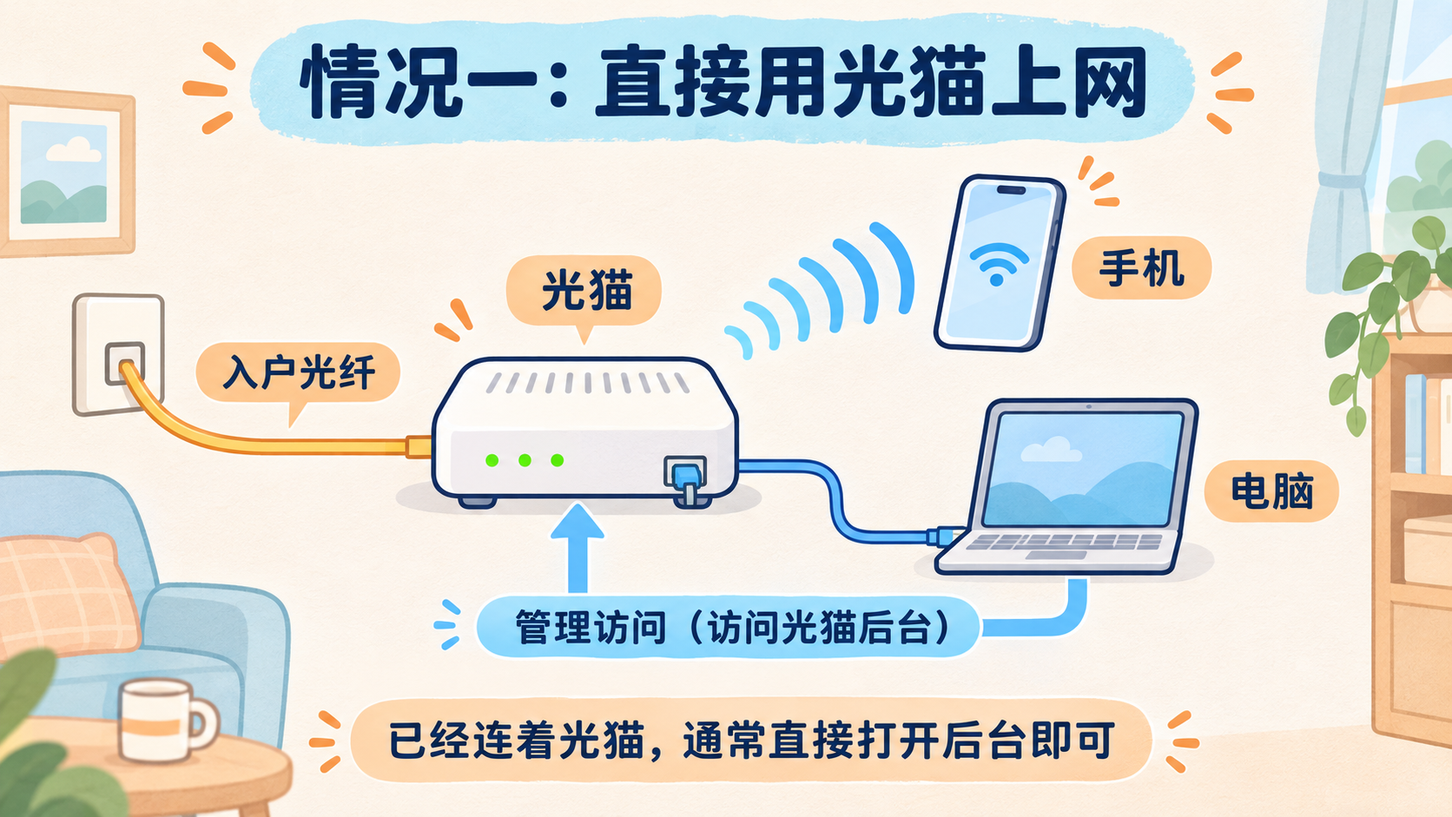
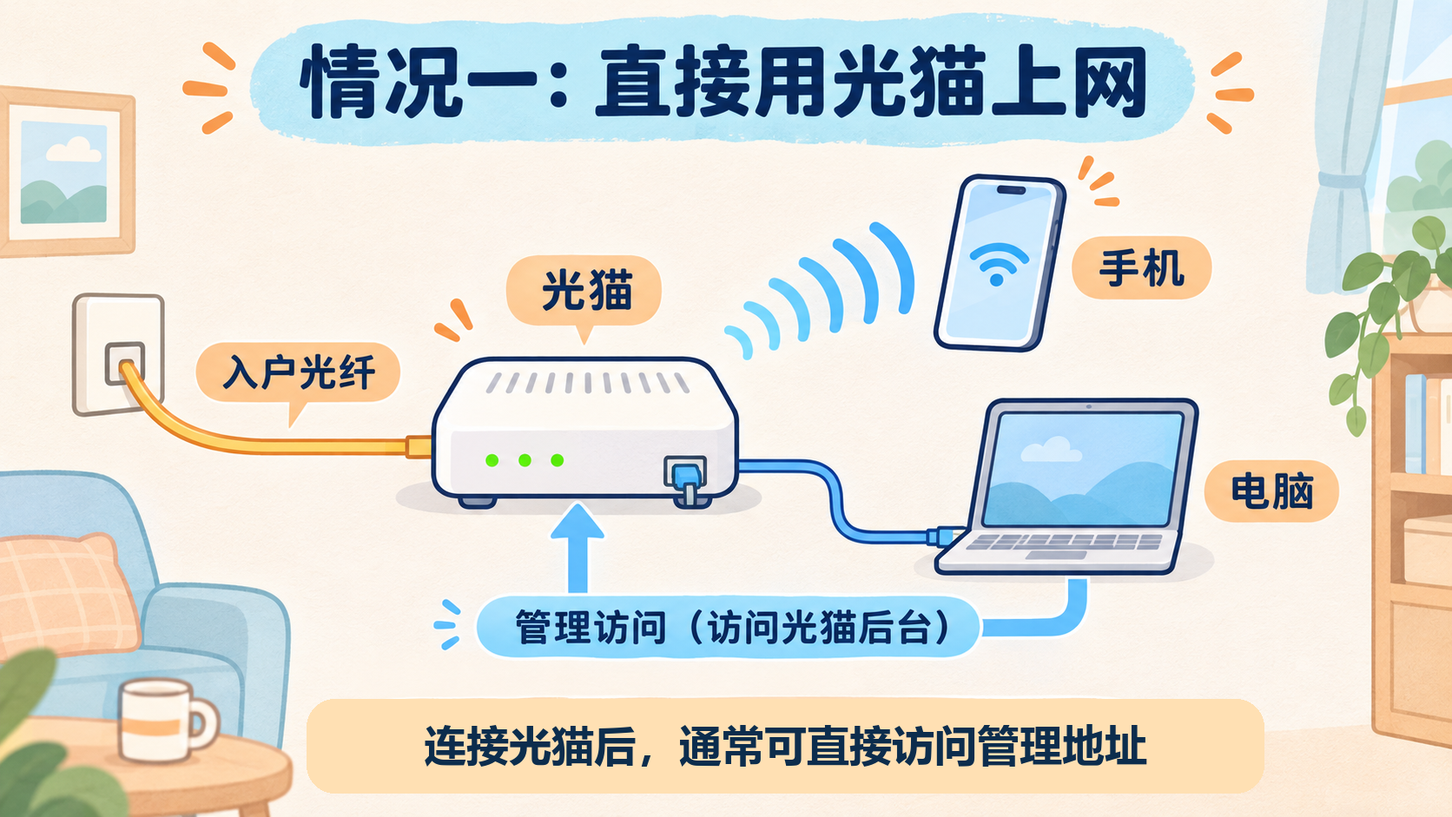
Refine documentation and sanitize public media

Changed region(s): [[0.1866, 0.8321, 0.8708, 0.9862]]

diff --git a/README.md b/README.md
@@ -1,224 +1,199 @@
-# 上海、浙江电信光猫：让 Agent 帮你开 SSH，顺便补齐常用命令
+# 上海、浙江电信光猫维护：通过 Telnet 配置 SSH 与常用命令工具
 
-想折腾一下自家的光猫，又不想挨个研究命令，可以把事情交给 Agent。
+本教程面向希望使用 Agent 维护自家光猫的用户，介绍三个步骤：**访问管理后台，通过临时 Telnet 配置 SSH，再按需要补充常用命令。**
 
-这篇就讲这么一条路：**先连上光猫后台，再临时开 Telnet，装好 SSH，最后看看有没有需要补的命令。**
+这里的 Agent 是能够执行命令、读取文件并访问家庭网络的 AI 助手。仅提供聊天功能的工具，不能直接完成设备操作。
 
-这里的 Agent，指能在你的电脑上执行命令、访问家里网络的 AI 助手，不是只能聊天的网页问答工具。
+教程不要求改变现有拨号方式或网络结构。能够利用当前连接完成管理，就不必改桥接、拔网线或手动调整电脑 IP。
 
-不需要为了这个教程改桥接，也不用照搬别人家的网络。你现在怎么上网，就尽量保持怎么上网。
+## 直接交给 Agent 使用
 
-### 懒得逐段复制？整份交给 Agent 就行
-
-仓库里有一份 [总 Skill](skills/telecom-ont-maintenance/SKILL.md)，把下面这段发给 Agent，让它先读教程和 Skill，再帮你做。能读取仓库文件就可以开始了解流程，不必先研究怎么安装 Skill。
+仓库附带一份 [总 Skill](skills/telecom-ont-maintenance/SKILL.md)，说明操作流程、适用条件和验证要求。将以下提示词发给 Agent，让它先阅读教程和 Skill，再根据你的设备情况处理。
 
 ```text
-帮我按这个仓库维护自己的光猫：
+请依据以下仓库，协助维护我本人拥有或已获得明确授权的光猫：
 https://github.com/lazyalex616/china-telecom-ont-guide
 
-先读 README.md 和 skills/telecom-ont-maintenance/SKILL.md，按 Skill 的步骤来。
+先阅读 README.md 和 skills/telecom-ont-maintenance/SKILL.md。
 
-我的目标是：从现在的家庭网络连上光猫后台，通过临时 Telnet 装好 SSH，再按需要补齐常用命令。
+目标是：从当前家庭网络访问光猫后台，通过临时 Telnet 配置 SSH，并按需要补齐常用命令。
 
-先核对型号、固件、谁在拨号，以及现有管理路径。超密我会安全提供，不要猜密码。
+请先确认设备型号、固件、拨号方式及管理访问路径。超级管理员凭据由我通过安全方式提供，不要猜测密码。
 
-需要装工具或改设备时，先把具体方案告诉我，我确认以后再做。别改现有拨号，别刷机、恢复出厂或擅自重启，也别把管理入口开到公网。
+安装工具或修改设备配置前，请列出具体方案、影响和验证方式，经我确认后执行。保留现有拨号和业务配置，不刷机、不恢复出厂、不擅自重启，也不开放公网管理入口。
 
-做好以后，用大白话告诉我现在能用什么、临时 Telnet 有没有关，以及重启恢复有没有真的验证过。
+完成后，请说明已验证的功能、临时 Telnet 的关闭状态，以及哪些重启恢复能力仍未验证。
 ```
 
-## 一、这次折腾的是哪两台？
+## 一、适用样本与 Telnet、SSH 的用途
 
-| 地区 | 光猫 | 测试时的固件 |
+### 实际验证的设备
+
+| 地区 | 品牌和型号 | 测试时的固件 |
 |---|---|---|
 | 上海电信 | 中兴 ZXHN G7615V2 | `V3.0.0P1T2` |
 | 浙江电信·嘉兴 | ZNXT ZN-XG120 | `ZV2.01.X01` |
 
-这两台都已经成功连上 SSH，能登录、能执行命令。自启动也配好了，但还没实际重启验证。
+以上两台历史样本均完成了 SSH 密钥登录和命令执行，应用环境中的自启动项也已配置。**尚未进行整机或应用环境重启验证，因此不能保证重启后的恢复结果。**
 
-换句话说，**目前能用，不等于已经证明重启以后也一定能用。** 别的型号、别的固件，也不能直接照抄。
+这些结果只对应表中的型号和固件，不代表上海、浙江所有电信光猫均适用。同型号使用不同固件时，也需要重新确认。
 
-![上海和浙江嘉兴的位置，以及中兴 ZXHN G7615V2、ZNXT ZN-XG120 两台实测光猫的通用外观示意](assets/figures/01-tested-models.png)
+![上海和浙江嘉兴的位置，以及中兴 ZXHN G7615V2、ZNXT ZN-XG120 两台实测光猫的外观示意](assets/figures/01-tested-models.png)
 
-配图由 GPT 生成，都是帮助理解的示意图，不是真实设备照片，也不是额外的实测证据。
+配图用于解释位置和操作关系，不是真实设备照片，也不是额外的实测证据。
 
-### 开 Telnet、SSH 有啥用？
+### Telnet 与 SSH 的区别
 
-平时进光猫后台，是在网页上点按钮。连上 Telnet 或 SSH，就能直接输命令，让 Agent 看一些网页里看不到的东西。
+Telnet 和 SSH 都可以用于远程命令行访问，方便查看运行状态、处理文件和日志，或执行已确认的维护任务。
 
-比如查看运行状态、处理日志，或者做一些你明确交代的小任务。
+- **Telnet 不加密。** 本教程只将其作为可信管理网络中的临时配置入口，SSH 验证成功后关闭本次临时开启的 Telnet。
+- **SSH 提供加密连接。** 本教程使用密钥认证，作为后续维护入口，不开放公网访问。
 
-这次 **Telnet 只是用来搭个桥，SSH 装好以后就把临时 Telnet 关掉**。以后维护优先用 SSH，连接过程有加密，也更方便交给 Agent。
+远程访问方式本身不会直接提高宽带速度，也不会自动增加设备权限。
 
-当然，这不是宽带提速教程。开了 SSH，网速不会凭空涨一截。
+![登录后台，通过临时 Telnet 配置 SSH，验证成功后关闭临时 Telnet；SSH 用于查看状态、整理日志和执行已确认的任务](assets/figures/02-telnet-ssh.png)
 
-![先登录后台，通过临时 Telnet 装好 SSH，然后关闭临时 Telnet；SSH 可用于查看状态、整理日志和运行已确认的小任务](assets/figures/02-telnet-ssh.png)
+## 二、取得有效的超级管理员凭据
 
-## 二、先把超密要到手
+“超密”通常指光猫的超级管理员账号和密码。它不一定是设备背面标注的普通管理密码，也不同于 Wi-Fi 密码和宽带拨号密码。
 
-先别急着下工具，第一件事是拿到自己这台光猫的超密，也就是超级管理员账号和密码。
+可以拨打 **10000 号**，向客服说明希望取得自己光猫的超级管理员凭据，请客服创建工单并转交装维处理。装维师傅联系后，再说明维护需求并确认当前设备可用的账号和密码。
 
-可以先打 **10000 号**，跟客服说想要自己光猫的超密，请他们开个工单、转给装维处理。等电信小哥联系你了，就试着问他要一要。
+如果首次沟通未能取得，可通过微信继续联系。个人选择用小红包表达感谢，也不应被视为取得超密的保证；能否提供仍以当地管理要求和装维答复为准。
 
-要是不好要，可以加个微信再聊聊，愿意的话发个小红包表示感谢也行。不过各地情况不一样，不保证一定拿得到；对方明确说不能提供，就再跟客服沟通。
+本教程只适用于本人设备或已获得明确管理授权的设备。没有有效凭据时，先通过运营商正规渠道沟通，不猜测密码或绕过权限。
 
-注意，你要的是**当前这台光猫能用的超密**，不是 Wi-Fi 密码，也不一定是光猫背面贴的那个普通管理密码。
+取得凭据后，通过密码管理器或其他安全方式交给 Agent，不写入公开仓库、脚本、截图或报告。
 
-这里只聊自己的光猫，或者机主明确允许你维护的设备。没拿到有效超密，就先停在这，不猜密码。
+## 三、从现有家庭网络访问光猫后台
 
-拿到以后，自己收好，通过安全方式交给 Agent。别把密码贴到公开仓库里，也别让它为了省事写进脚本。
+先确认当前网络属于以下哪一种情况，再判断是否需要额外配置。
 
-## 三、进光猫后台，不一定要拔网线、改电脑 IP
+**`192.168.1.1` 是常见管理地址示例，不一定是你自己光猫的地址。** 实际地址应以设备和现场配置为准。
 
-先看看你家是哪种情况。能直接打开后台，就不用多折腾。
+### 1. 直接使用光猫上网
 
-下面的 `192.168.1.1` 只是常见地址举例，不一定是你家光猫的地址。
+如果手机连接光猫 Wi-Fi，或电脑通过网线直接连接光猫，设备通常已经处于可访问光猫管理地址的网络中。
 
-### 1. 直接用光猫上网，后面没接路由器
+可以先打开实际管理地址。能够访问时，无需额外增加路由或手动修改电脑 IP。
 
-比如手机连着光猫的 Wi-Fi，或者电脑直接插在光猫上。
+![手机连接光猫 Wi-Fi，电脑通过网线连接光猫，通常可以直接访问管理地址](assets/figures/03-direct-ont.png)
 
-这种最省事。你已经在光猫的网络里，通常直接打开它的管理地址就行，不用先给电脑手动配 IP。
+### 2. 光猫拨号，后面连接 Wi-Fi 路由器
 
-![手机直接连接光猫 Wi-Fi，电脑通过网线连接光猫，通常可以直接访问光猫后台](assets/figures/03-direct-ont.png)
+这种情况下，宽带账号配置在光猫上，后级路由器为家庭设备提供网络连接和 Wi-Fi。
 
-### 2. 后面接了 Wi-Fi 路由器，但还是光猫拨号
+先尝试从当前网络访问光猫管理地址。如果后级设备仅作为无线接入点使用，通常可以直接访问；如果它还建立了独立内网，则需要确认地址冲突和访问限制。
 
-也就是宽带账号填在光猫里，后面的路由器负责给家里提供 Wi-Fi。
+访问失败时先检查原因，不必因此改变拨号模式。
 
-这时通常也能直接访问光猫后台。如果后面的设备只是当无线接入点用，那就更简单。
+![光猫负责拨号，后级路由器提供 Wi-Fi，先尝试访问管理地址，再检查地址和访问限制](assets/figures/04-ont-dials.png)
 
-先试着打开光猫的管理地址。打不开，再让 Agent 看看是不是地址撞车了，或者路由器挡住了访问，没必要上来就改桥接。
+### 3. 光猫桥接，由路由器拨号
 
-![光猫负责拨号，后面的路由器提供 Wi-Fi，先尝试直接访问光猫后台，打不开再检查](assets/figures/04-ont-dials.png)
+路由器能够拨号上网，不代表它已经具备访问光猫管理地址的路径。
 
-### 3. 光猫改了桥接，现在是你的路由器拨号
+支持自定义路由的设备，可以通过静态路由指定管理请求的出口，使请求经连接光猫的接口发送。但有些设备还需要配置管理侧地址，或调整这类请求的来源，使光猫能够返回响应。
 
-这种就可能需要补一下路。
+**静态路由不一定单独解决问题。** 应先查看现有接口和路径，再根据路由器支持的功能配置，不能直接复制其他用户的地址、接口名和规则。
 
-说白了，**路由器知道怎么带你上网，但不一定知道怎么带你去光猫后台。**
+![光猫桥接、路由器拨号，上网路径与光猫管理访问分开，后者可能需要路由、管理侧地址或回复路径配置](assets/figures/05-router-dials.png)
 
-如果路由器支持自定义路由，也叫静态路由，就可以告诉它：
+### 以爱快为例
 
-> 去光猫管理地址的请求，走接光猫的那个口。
-
-有些路由器还要给接光猫的一侧配个管理地址，让光猫知道怎么把回复送回来。所以不一定加一条路由就完事，得看你的设备支持什么。
-
-![光猫桥接、路由器拨号，上网路径与光猫后台的管理访问分开，后者可能需要补充路由、管理侧地址或回复路径](assets/figures/05-router-dials.png)
-
-#### 拿爱快举个例子
-
-爱快有个 [ikuai-cli](https://github.com/ikuaidev/ikuai-cli)，可以让 Agent 用命令管理路由器，还带配套 Skill。
-
-把工具装在运行 Agent 的电脑上就行，不是装到光猫里。
-
-可以直接跟 Agent 说：
+爱快开发者组织提供了 [ikuai-cli](https://github.com/ikuaidev/ikuai-cli)，包含命令行工具和配套 Skill。确认路由器版本支持后，可安装到运行 Agent 的管理电脑上，不需要安装到光猫中。
 
 ```text
-我用的是爱快路由器，想从现在的家庭网络直接访问光猫后台，不想每次拔网线、直连光猫、手动改电脑 IP。
+我使用爱快路由器，希望从当前家庭网络访问光猫后台，避免每次直连光猫或手动修改电脑 IP。
 
-先去看一下 https://github.com/ikuaidev/ikuai-cli，按我的电脑系统装好 CLI 和配套 Skill，确认我的路由器版本能用。
+请阅读 https://github.com/ikuaidev/ikuai-cli，确认路由器版本支持后，按管理电脑的系统安装 CLI 和配套 Skill。
 
-用我安全提供的凭据连接路由器，先看看现在是谁在拨号、哪个口接光猫，以及光猫的实际管理地址。
+使用我安全提供的凭据连接路由器，先核对拨号方式、连接光猫的接口、实际管理地址和现有配置。
 
-已经能访问就别改。不能访问的话，看看要不要补静态路由、管理侧地址，或者处理光猫的回复路径。
+如果已经可以访问，不要修改。如果不能访问，请说明是否需要静态路由、管理侧地址或回复路径调整。
 
-先告诉我具体准备改什么，我确认以后再动。别改现有拨号、默认上网路由或连接配置，也别把后台开放到公网。
+列出具体改动和影响，经我确认后执行。保留现有拨号、默认上网路由和连接配置，不开放公网管理入口。
 ```
 
-不是爱快也没关系，把路由器名称换成你自己的，让 Agent 先查它支持什么。
+使用其他路由器时，可以替换提示词中的名称，让 Agent 先核对该设备的管理方式和功能。
 
-以前很多人执着于让路由器拨号，觉得它转发性能更强。不过现在不少光猫也不弱，普通家庭够用就行。**这篇是给爱折腾的人提供一条思路，不是劝所有人改桥接。**
+由光猫还是路由器拨号，应根据实际设备性能和功能需求选择。现代光猫的能力也有差异，不能仅凭设备类别判断谁一定更快。**本教程提供维护方法，不把桥接作为必选方案。**
 
-## 四、让 Agent 通过 CGI 连上后台
+## 四、依据实际登录流程访问后台
 
-### CGI 是个啥？
+### 什么是 CGI？
 
-不用记全称。在这里，把它理解成**网页背后接单办事的入口**就行。
+**CGI（Common Gateway Interface，通用网关接口）是 Web 服务器将请求交给后台程序处理的一种机制。**
 
-你填账号、点登录，浏览器会把请求发给后台。Agent 也可以照着这个流程发请求、拿结果，不一定要替你找按钮、点页面。
+例如，在浏览器中提交登录信息后，后台程序会验证身份并返回结果。Agent 可以依据页面实际使用的请求流程完成同样的操作，而不必逐个点击网页按钮。
 
-但它不是免密入口，账号、密码、权限一样不能少。
-
-把这段发给 Agent：
+CGI 不是免密入口，也不是绕过权限的方法。光猫后台可能同时使用其他实现方式，因此应以当前设备的实际请求、跳转和会话处理为准，不能仅凭地址后缀判断。
 
 ```text
-帮我连上自己光猫的管理后台，优先按网页实际使用的 CGI 请求流程来。
+请协助登录光猫管理后台，依据当前网页实际使用的 CGI 或其他 Web 请求流程操作。
 
-超密我已经从电信小哥那里拿到了，会通过安全方式提供给你。先确认地址对应的是我的光猫，再提交密码。
+超级管理员凭据由我通过安全方式提供。请先确认管理地址对应的是目标光猫，再提交凭据。
 
-看看它真正的登录流程是什么，包括跳转和登录状态。中兴和 ZNXT 的流程可能不一样，别拿另一款光猫的方法直接套。
+核对登录入口、表单字段、跳转和会话处理，不直接套用另一型号或固件的流程。
 
-进去以后，先告诉我品牌、型号、固件，以及现在是谁在拨号。别顺手改设置。
+登录后，仅查看并报告品牌、型号、固件和当前拨号方式，不修改设置。
 
-如果浏览器能登录，你却进不去，先检查流程和会话，别一直试密码。也别拿到了登录页，就说自己已经进后台了。
+如果浏览器能够登录而请求失败，请先检查流程、会话和权限状态，不反复尝试密码。需要读到实际后台内容，不能把返回登录页视为成功。
 
-不要打印密码或登录凭证，也不要重启、导出配置。
+不打印密码或会话凭证，不重启设备，不导出原始配置。
 ```
 
-这一步先做到**认对设备、真正登录进去**，就够了。
+这一步的完成标准是：确认目标身份，并成功读取其后台状态。
 
-## 五、再通过 Telnet 把 SSH 装起来
+## 五、通过临时 Telnet 配置 SSH
 
-不是每台光猫都有一个“开启 SSH”的按钮。
+两台样本并非通过一个通用“SSH 开关”完成配置，而是先使用匹配固件的临时 Telnet 维护入口，再在设备已有的可写应用环境中安装 **Dropbear SSH 服务**，未修改固件。
 
-我们这两台走的是：先通过匹配固件的临时 Telnet 维护入口进入命令行，再把一个小型 SSH 程序装进光猫已有的可写应用区域。用的程序叫 **Dropbear**，不用刷机。
-
-还有一点：**后台超密不一定也是 Telnet 密码。** 如果还缺别的凭据，就先取得，别让 Agent 猜。Telnet 的连接不加密，只在可信的管理网络里临时使用。
-
-继续跟 Agent 说：
+**后台超密、Telnet 密码和管理员提权凭据可能不同。** 缺少所需凭据时应停止，不猜测密码。Telnet 只在已确认可信的管理链路中临时使用。
 
 ```text
-后台已经连上了，接下来帮我看看这台光猫能不能通过临时 Telnet 安装 SSH。
+后台登录已确认。请检查当前型号和固件是否支持通过临时 Telnet 配置 SSH。
 
-先核对型号和固件，找匹配的维护方法。中兴样本用的是临时维护认证，ZNXT 样本是在后台临时打开 Telnet，别互相照搬。
+中兴样本使用匹配固件的临时维护认证，ZNXT 样本通过后台临时开启 Telnet。请先核对适用条件，不互相套用。
 
-如果还缺 Telnet 或管理员凭据，先告诉我，不要猜密码、绕权限。
+如果还需要 Telnet 或管理员凭据，请说明缺口并停止，不猜测密码或绕过权限。
 
-看看现在有没有 SSH，以及程序能保存在哪里。已有的服务、文件别覆盖。
+检查已有 SSH 服务、CPU 架构、可写存储和应用环境，保留现有程序、服务及授权文件。
 
-先告诉我准备装什么、放在哪里、怎么启动，我确认后再做。程序要来自可信来源，而且得适合这台光猫的 CPU。
+列出安装程序、保存位置、启动方式和验证方案，经我确认后执行。程序须来自可信来源并匹配设备架构。
 
-SSH 用密钥登录，私钥留在电脑上，只把公钥放到光猫。只供可信内网使用，不开公网入口或转发功能。
+使用密钥认证，客户端私钥留在管理电脑上，只传批准的公钥。SSH 限定在可信内网，不开放公网入口或转发功能。
 
-实际连上 SSH、确认命令能执行以后，把这次临时开的 Telnet 关掉，并确认已经关闭。
+实际完成 SSH 登录和无副作用命令验证后，关闭本次临时开启的 Telnet，并独立确认关闭状态。
 
-别刷机、恢复出厂或重启，也别动拨号、光路注册、电视和电话配置。最后说清楚当前能不能用，以及重启恢复有没有真的验证过。
+不刷机、不恢复出厂、不擅自重启，不修改拨号、光路注册、电视或电话配置。报告已完成的验证和仍未验证的重启恢复能力。
 ```
 
-连上以后，也别看到 `root` 就以为整台光猫都随便你用了。
+两台样本的 SSH 均进入应用环境。即使用户显示为 `root`，也不代表已经进入光猫主系统，或能够访问所有进程、文件和日志；这些能力需要分别确认。
 
-**有些 SSH 进去的只是光猫里的应用区域。** 能看哪些文件、哪些进程、哪些日志，还得让 Agent 分别确认。我们这两台就是这种情况。
+## 六、按需要补充 Shell 常用命令
 
-## 六、命令不够用，再补个工具箱
+Shell 是接收并执行命令的程序。本教程所说的“补全 Shell”，主要指补充缺少的常用命令，并非扩大权限或替换光猫系统。
 
-能进命令行，不代表里面什么工具都有。
+**BusyBox** 将多种常用命令集中在一个程序中，可用于补充文件查看、文字处理和状态检查工具。应先检查现有工具，确有缺失时再安装。
 
-Agent 想查个文件、筛一下日志，结果发现命令不存在，就会卡住。这时可以按需要补充 **BusyBox**，把它当成装了很多小工具的工具箱就行。
-
-这里说的“补全 Shell”，主要就是补齐常用命令，不是破解权限，也不是给光猫换系统。
-
-这次中兴样本补了较新的 BusyBox，原来的工具照样保留。ZNXT 样本自带的命令已经挺齐，就没必要再装一套。
-
-可以跟 Agent 说：
+中兴历史样本补充了较新的 BusyBox，并保留原有厂商工具；ZNXT 样本已有较齐全的命令，没有重复安装。
 
 ```text
-再帮我看看这台光猫的常用命令够不够用，主要是查看文件、整理日志、检查运行状态这些。
+请检查当前 Shell 和常用命令是否满足文件查看、日志整理和运行状态检查的需要。
 
-已经有的就用现成的，别为了“补全”再装一遍。
+优先使用现有工具。发现命令缺失时，先确认是否与查找路径或当前环境有关，再说明需要补充的功能。
 
-确实缺命令的话，告诉我缺什么、补上能解决什么。需要 BusyBox 时，核对来源和 CPU 是否匹配。
+如需安装 BusyBox，请核对可信来源、设备架构和保存位置，列出方案并等待我的确认。
 
-新增工具放在独立目录，别覆盖原来的 BusyBox、Shell 和厂商命令。先列给我看，我确认后再安装。
+新增工具使用独立目录，不覆盖原有 BusyBox、Shell 或厂商命令。
 
-装好以后验证一下能不能用，再说清楚哪些只是当前有效、哪些已经保存，以及重启后恢复有没有验证。
+安装后验证所需命令，并区分当前可用、已持久保存和已验证重启恢复三种状态。
 
-别为了补几个命令去改固件、分区，也别顺手停掉其他服务。
+不修改固件或分区，不关闭其他服务，也不因安装了某个命令而擅自启动对应服务。
 ```
 
-补齐以后，Agent 查东西会顺手一些，少绕几次路。但它不会自动帮你转发日志，也不会自动保证重启以后还在。
-
-先把 SSH 和需要的命令弄好就可以收工。后面想做什么，再一件件交代，没必要一次把光猫改个遍。
+补充命令可以提高维护便利性，但不会自动完成日志转发、自启动或重启恢复。这些属于独立任务，应按实际需求分别确认和验证。
 
 ---
 

diff --git a/AGENTS.md b/AGENTS.md
@@ -1,14 +1,17 @@
 # 本仓库的协作约定
 
-这是面向普通用户的中文公开教程。正文集中在 README，用随意、通俗的口吻写，并提供一份与正文配套的总 Skill，不扩展成工具包或运维手册。文档和提示词用简体中文，协议字段、代码标识和命令保持原样。
+这是面向普通用户的中文公开教程。正文集中在 README，使用通俗、准确、克制的表达，并提供一份与正文配套的总 Skill，不扩展成工具包或运维手册。文档和提示词用简体中文，协议字段、代码标识和命令保持原样。
 
 ## 写法和当前范围
 
 - 主线只有：连上后台、通过临时 Telnet 安装 SSH、按需补齐命令。
+- 首次出现的关键术语给出准确解释，避免过度口语化、省略必要释义或将维护操作描述为可以任意执行。
 - 不放作者的私人网络架构，爱快只作为通用路由器例子。
 - 解释三种常见上网方式，不把桥接写成必选项，也不把静态路由写成必然足够。
 - 保留两台样本的品牌、型号和固件，写清实际登录成功与尚未重启验证的区别。
-- 配图由 GPT 生成，只是机制和设备外观示意，不是照片或新的实测证据。改图时核对文字、地理关系和管理路径含义。
+- 配图只是机制和设备外观示意，不是照片或新的实测证据。改图时核对文字、地理关系和管理路径含义。
+- README、提示词、Skill、配图文字和当前 Release 说明保持相同的表达标准。
+- 公开正文、Release 和图片元数据不标注配图创作工具或生成来源，保留示意图、非实拍的说明。
 - 总 Skill 位于 `skills/telecom-ont-maintenance/SKILL.md`，覆盖管理路径、CGI、临时 Telnet、SSH 和按需补命令；README 给用户一段可直接交给 Agent 的入口提示词。
 - 不恢复已删除的旧分章教程、脚本、测试或下载包，除非用户明确要求。总 Skill 保持原目录名和标识，不搬回旧版工具包。
 
@@ -23,7 +26,7 @@
 
 - 不提交密码、宽带账号、LOID、SN、MAC、公网地址、私人域名、手机号、Cookie、Token、HAR、配置备份或抓包。
 - 不把密码“藏”在 Base64、截图、示例输出或 Git 历史里。
-- 公网示例用文档保留地址；管理网段示例必须说明要按现场核对。
+- 真实地址和私人网络规划使用用途占位说明；`192.168.1.1` 可以作为明确标注的通用管理地址示例保留。
 - 示例密码只能是明确占位符；命令不能诱导用户把真实密码写进历史。
 - 提交前检查工作区和 Git 暂存区，首次推送前还要检查提交历史与作者邮箱。
 

diff --git a/THIRD_PARTY_NOTICES.md b/THIRD_PARTY_NOTICES.md
@@ -1,8 +1,8 @@
 # 来源与第三方说明
 
-这篇教程来自两台已授权光猫的实际维护经历：上海电信的中兴 ZXHN G7615V2，以及浙江电信的 ZNXT ZN-XG120。具体固件和验证范围见 [README](README.md)。
+本教程依据两台已授权光猫的历史维护结果编写：上海电信的中兴 ZXHN G7615V2，以及浙江电信的 ZNXT ZN-XG120。具体固件和验证范围见 [README](README.md)。
 
-这里只分享方法、提示词和一份总 Skill，不提供安装脚本、打包的下载工具或设备程序，也不包含真实密码、配置、会话和私人网络规划。
+本仓库提供方法说明、提示词和一份总 Skill，不提供安装脚本、打包的下载工具或设备程序，不包含真实密码、配置、会话和私人网络规划。
 
 ## 参考来源
 
@@ -10,7 +10,6 @@
 - 爱快 CLI 和配套 Skill：[ikuaidev/ikuai-cli](https://github.com/ikuaidev/ikuai-cli)。使用前核对当前项目说明和自己的路由器版本。
 - SSH 服务：[Dropbear 上游项目](https://github.com/mkj/dropbear) 及其 [完整许可](https://github.com/mkj/dropbear/blob/DROPBEAR_2026.94/LICENSE)。样本安装的是从上游构建的 Dropbear 2026.94。
 - BusyBox 构建来源：[plusls/busybox-static](https://github.com/plusls/busybox-static)。中兴样本使用的程序实际版本是 BusyBox 1.37.0；构建项目的 Release 标签不等于程序版本。
-- Skill 写作结构参考：[Anthropic skill-creator](https://github.com/anthropics/skills/tree/main/skills/skill-creator)。本次核对了上游当前说明和校验规则，总 Skill 由本仓库独立编写。
 
 ## 许可
 
